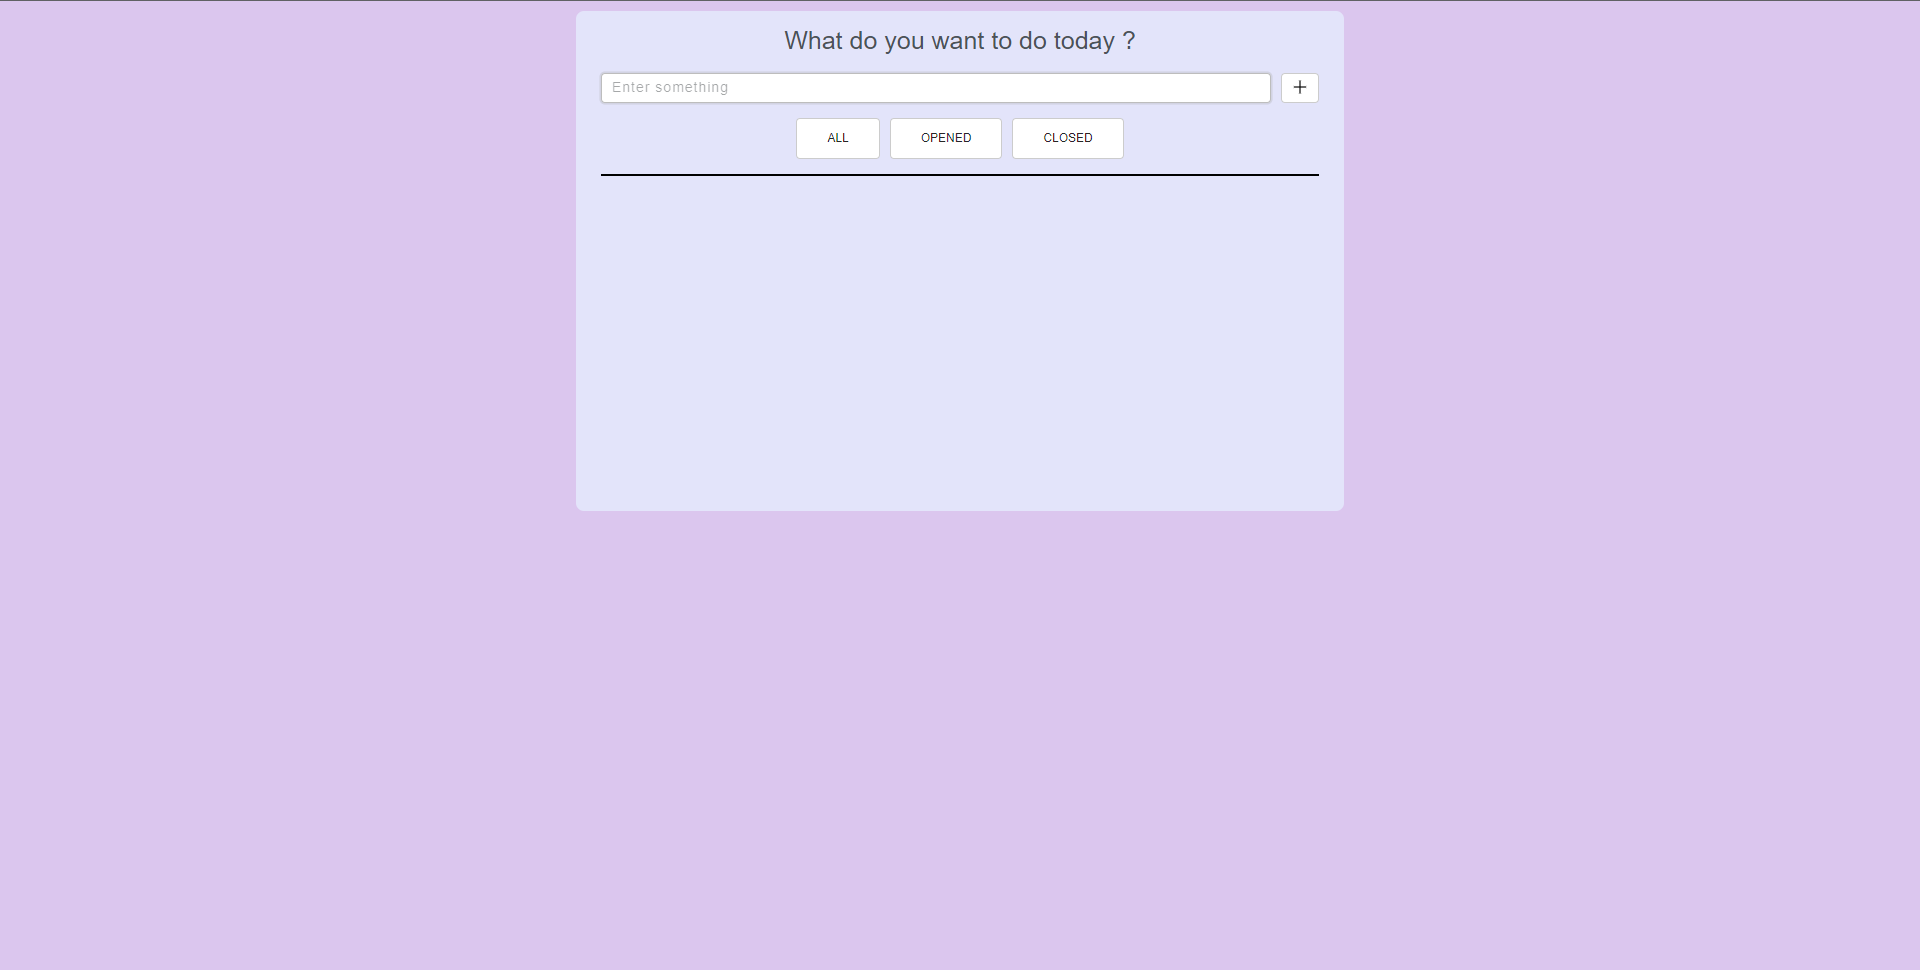
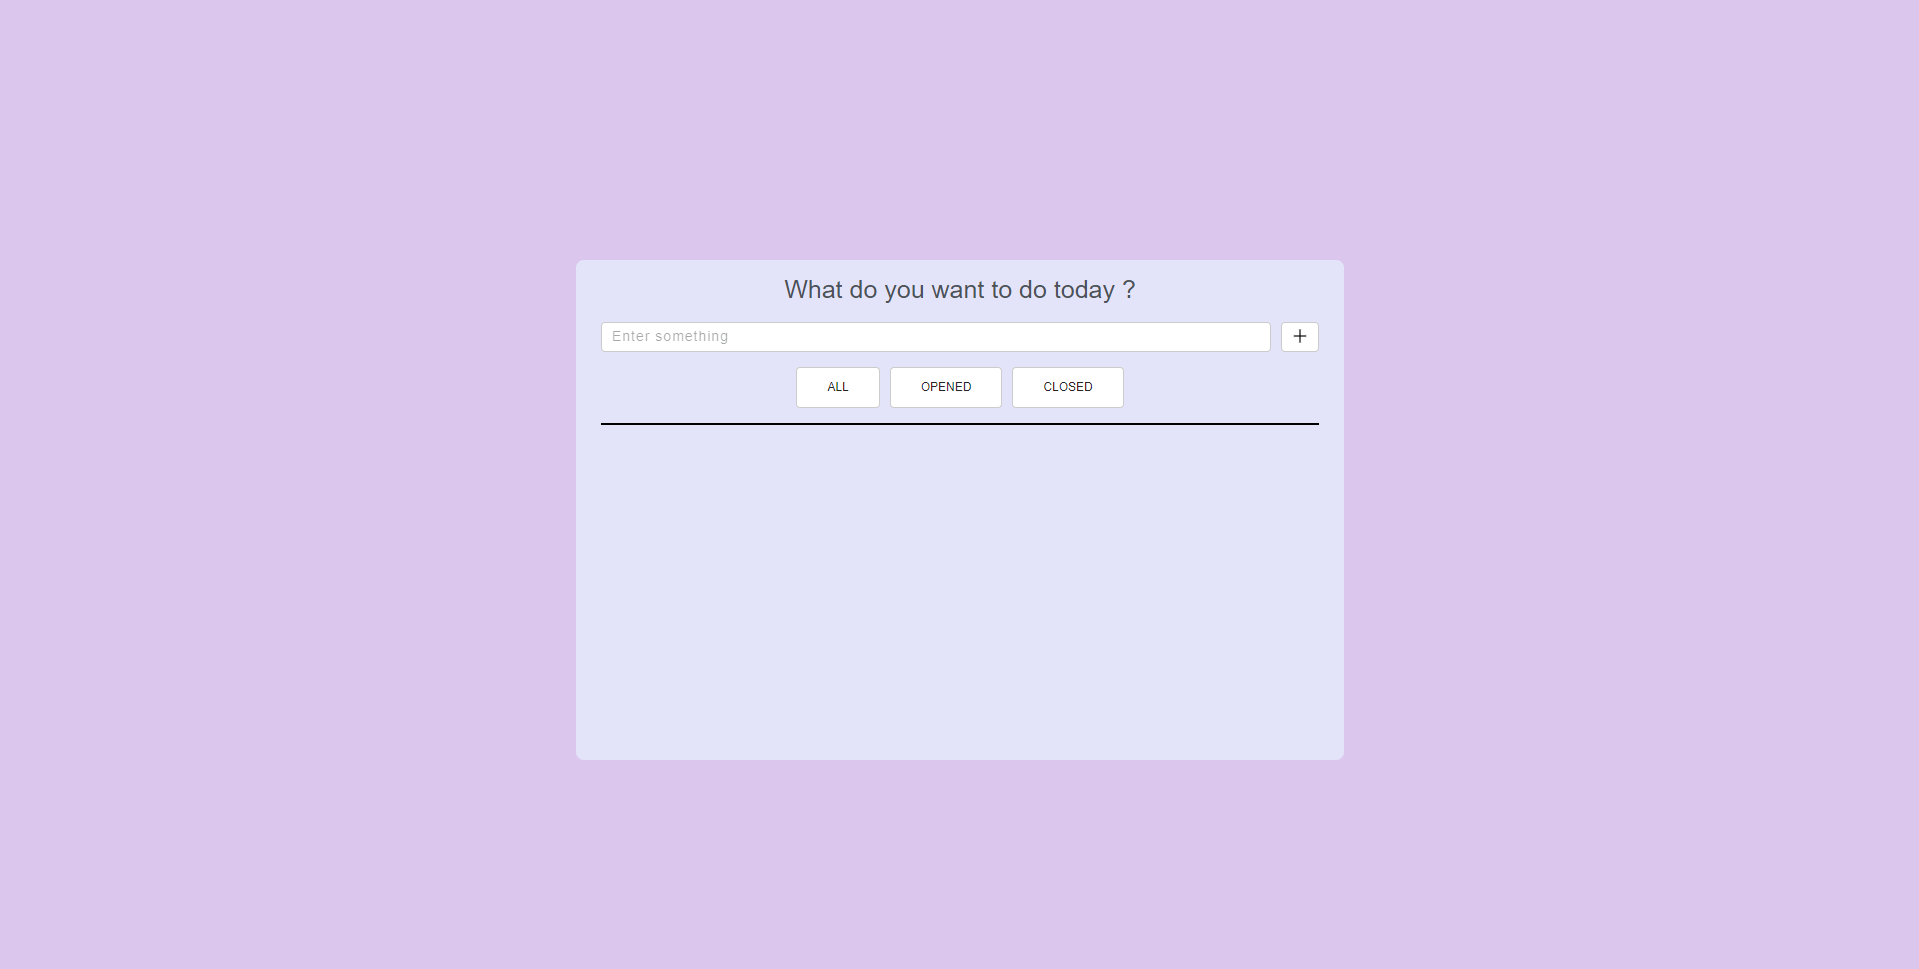
Some responsive

Changed region(s): [[0.2767, 0.0, 0.7071, 0.4334], [0.2767, 0.5263, 0.7071, 0.805]]

diff --git a/landing-page/src/Components/Content/Content.jsx b/landing-page/src/Components/Content/Content.jsx
@@ -25,8 +25,6 @@ function Content() {
                     <li className="nav__item">
                         <a className="active" href="#">Portfolio</a>
                     </li>
-                    <li className="nav__item"><a className="active" href="#">Contact</a>
-                    </li>
                 </ul>
             </div>
             <div className="description">
@@ -38,19 +36,19 @@ function Content() {
             <div className="prof-skills">
                 <div className="prof-skill__inf">
                     <div className="prof-skill__inf__item box-1">
-                        <img src={imgHTML} alt="HTML" className="box__icon"></img>
+                        <img src={imgHTML} alt="HTML" className="box__icon"/>
                         <HtmlOutlinedIcon className="content-icon box__icon"/>
                     </div>
                     <div className="prof-skill__inf__item box-2">
-                        <img src={imgCSS} alt="CSS" className="box__icon"></img>
+                        <img src={imgCSS} alt="CSS" className="box__icon"/>
                         <CssOutlinedIcon className="content-icon box__icon"/>
                     </div>
                     <div className="prof-skill__inf__item box-3">
-                        <img src={imgJS} alt="JavaScript" className="box__icon"></img>
+                        <img src={imgJS} alt="JavaScript" className="box__icon"/>
                         <JavascriptOutlinedIcon className="content-icon box__icon"/>
                     </div>
                     <div className="prof-skill__inf__item box-4">
-                        <img src={imgReact} alt="React" className="box__icon"></img>
+                        <img src={imgReact} alt="React" className="box__icon"/>
                         <p className="box__text react-text">react</p>
                     </div>
                 </div>
@@ -63,7 +61,7 @@ function Content() {
                        className="portfolio__card-link"
                     >
                         <div className="img-container">
-                        <img src={imgNeirika} alt="Project" className="portfolio__img"></img>
+                            <img src={imgNeirika} alt="Project" className="portfolio__img"/>
                         </div>
                     </a>
                 </div>
@@ -73,7 +71,7 @@ function Content() {
                        className="portfolio__card"
                     >
                         <div className="img-container">
-                        <img src={imgSquare} alt="Project" className="portfolio__img"></img>
+                            <img src={imgSquare} alt="Project" className="portfolio__img"/>
                         </div>
                     </a>
                 </div>
@@ -83,17 +81,18 @@ function Content() {
                        className="portfolio__card-link"
                     >
                         <div className="img-container">
-                        <img src={imgTodo} alt="Project" className="portfolio__img"></img>
+                            <img src={imgTodo} alt="Project" className="portfolio__img"/>
                         </div>
                     </a>
                 </div>
             </div>
+            <div className="footer-text">
             <p className="works">More my works uou can find
                 <a className="works__link"
                 target="_blank"
                 href="https://nikidan.github.io/"> here </a>
-                !
             </p>
+            </div>
         </div>
     );
 }

diff --git a/landing-page/src/Components/Content/style.css b/landing-page/src/Components/Content/style.css
@@ -56,7 +56,7 @@
 
 .prof-skill__inf__item{
     flex: 0 0 auto;
-    width: 40%;
+    width: 41.5%;
     display: flex;
     justify-content: center;
     height: calc(100% - 1.25rem);
@@ -101,6 +101,14 @@
     flex-direction: row;
 }
 
+.portfolio__item{
+    width: 34%;
+}
+
+.neirika, .square{
+    margin-right: 20px;
+}
+
 .portfolio__title{
     margin-top: 0;
 }
@@ -115,10 +123,10 @@
 }
 
 .img-container{
-    margin-right: 20px;
     background: #000000;
     overflow: hidden;
     border-radius: 8px;
+    z-index: 1;
 }
 
 .portfolio__img:hover{
@@ -126,8 +134,17 @@
     transform: scale(1.1);
 }
 
+.footer-text{
+    width: 100%;
+    height: 8%;
+    display: flex;
+    align-items: center;
+    margin-top: 35px;
+    justify-content: center;
+}
+
 .works{
-    margin: 35px 0 0 0;
+    margin: 0;
     font-size: 20px;
     font-weight: 600;
 }
@@ -140,4 +157,30 @@
 
 .works__link:hover{
     color: #ffdb6e;
+}
+
+@media screen and ( max-width: 1670px){
+    .prof-skill__inf__item{
+        width: 39%;
+    }
+
+    .portfolio__img{
+        width: 100%;
+        height: 120px;
+    }
+
+    .footer-text{
+        height: 12%;
+    }
+}
+
+@media screen and ( max-width: 1477px){
+    .prof-skill__inf__item{
+        width: 37%;
+    }
+
+    .portfolio__img{
+        width: 100%;
+        height: 120px;
+    }
 }

diff --git a/landing-page/public/Style.css b/landing-page/public/Style.css
@@ -1,5 +1,5 @@
 .root{
     width: auto;
     height: 100vh;
-    overflow: hidden;
+    /*overflow: hidden;*/
 }
